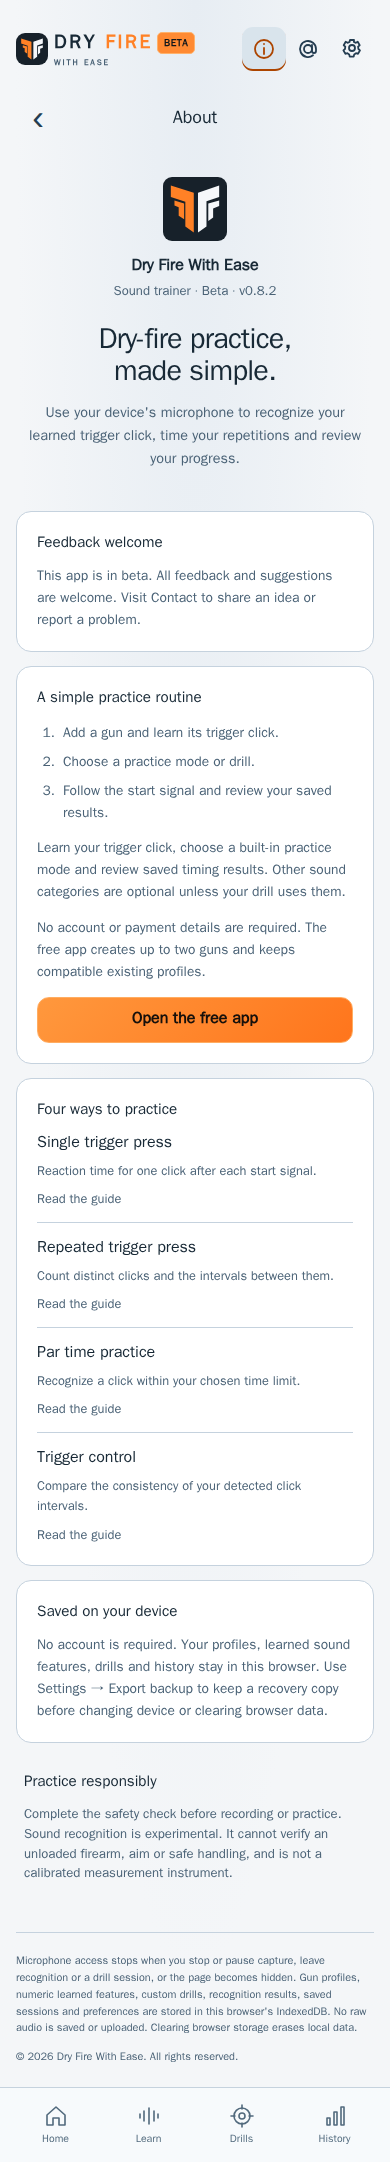
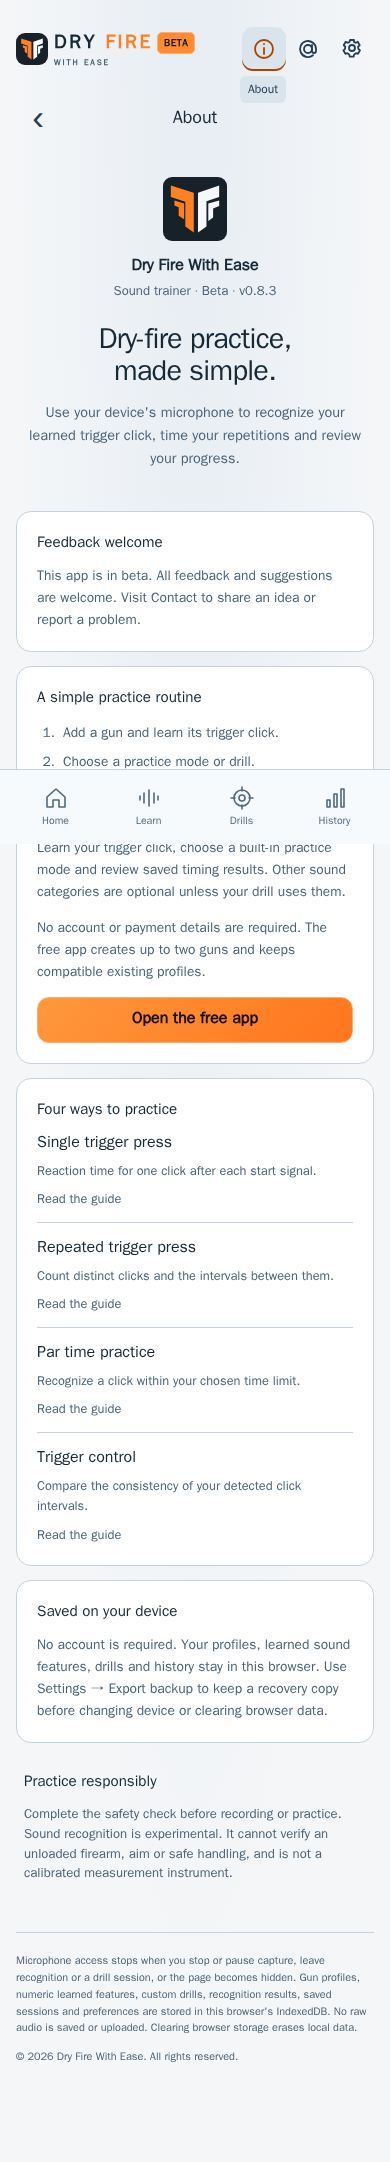
refactor: declare RecognitionList stylesheet ownership

diff --git a/tests/styleSources.test.js b/tests/styleSources.test.js
@@ -49,7 +49,7 @@ test('private progress presentation styles load with their only runtime owner', 
 });
 
 test('component-owned startup CSS is resolved through the single critical stylesheet copy', () => {
-  for (const [name, marker] of [['InformationCard', 'about-card'], ['DrillCard', 'preset-card'], ['SoundCard', 'class-card']]) {
+  for (const [name, marker] of [['InformationCard', 'about-card'], ['DrillCard', 'preset-card'], ['SoundCard', 'class-card'], ['RecognitionList', 'history-list']]) {
     const ownerPath = resolve(process.cwd(), `packages/ui/src/${name}/${name}.tsx`);
     const cssPath = `packages/ui/src/${name}/${name}.css`;
     const importPath = `./${name}.css`;

diff --git a/packages/ui/src/RecognitionList/RecognitionList.tsx b/packages/ui/src/RecognitionList/RecognitionList.tsx
@@ -1,4 +1,5 @@
 import {useState} from 'react';
+import './RecognitionList.css';
 import {HistoryDeleteControl} from '../HistoryDeleteControl';
 export type RecognitionRow={id:string;title:string;date:string;score:string;sequence?:string;actualLabel:string};
 export type RecognitionListProps={rows?:RecognitionRow[];options:{value:string;title:string}[];onVerify?:(id:string,value:string)=>void;onDelete?:(row:RecognitionRow)=>void;disabled?:boolean};

diff --git a/docs/project/component-library-refactor-plan.md b/docs/project/component-library-refactor-plan.md
@@ -1,6 +1,6 @@
 # Component-library and CSS-ownership refactor plan
 
-Status: approved for implementation on `b` (2026-11-09). CL0–CL3 are accepted. The `InformationCard`, `DrillCard` and `SoundCard` CL4 slices are accepted; SoundCard is app version 0.8.2 and exact-commit CI passed in run [42968151416](https://github.com/matosaru/dryfire/actions/runs/42968151416). Every separately accepted refactor increment bumps the app patch version. Visual design, behavior, routes, storage formats and performance limits remain unchanged. See the detailed [component-library specification](component-library-refactor-spec.md).
+Status: approved for implementation on `b` (2026-11-09). CL0–CL3 are accepted. `InformationCard`, `DrillCard` and `SoundCard` are accepted CL4 slices. `RecognitionList` is the current 0.8.3 candidate, with local tests green and exact-commit CI pending. Every separately accepted refactor increment bumps the app patch version. Visual design, behavior, routes, storage formats and performance limits remain unchanged. See the detailed [component-library specification](component-library-refactor-spec.md).
 
 ## Goal
 
@@ -14,7 +14,7 @@ Turn the existing `@dryfire/ui` package into a clearly layered internal componen
 | CL1 Architecture | Complete | Approved component and CSS ownership specification. |
 | CL2 Safety net | Complete | 182 Jest suites / 1,189 tests; public 105 and preview 82 Chromium tests pass (5 and 3 intentional skips); visual coverage records one canonical mobile Chromium capture per page type. |
 | CL3 Proof slice | Complete | `ProgressContent` imports its owned CSS; lazy Settings fallback keeps exact handoff pixels. Both editions pass optimized builds, artifact verification, actual startup-payload checks, and ten-pair Chromium/WebKit comparisons. |
-| CL4 Migration | In progress; InformationCard, DrillCard and SoundCard accepted | All three directly import their owned CSS; Vite routes startup owner imports through the critical-style manifest so prerendered screens keep one emitted stylesheet. SoundCard version 0.8.2 passes 1,192 unit tests, both edition visual suites, payload/artifact checks and all four pinned ten-pair timing comparisons. Exact-commit CI run 42968151416 passed. Migrate further repeated primitives in separate slices. |
+| CL4 Migration | In progress; InformationCard, DrillCard and SoundCard accepted; RecognitionList candidate pending CI | Candidate 0.8.3 declares RecognitionList's colocated CSS dependency, mapped through the startup-style owner so the aggregate remains the single emitted copy. The full local unit/coverage, public and preview browser suites, docs, artifacts, and smoke/SEO checks pass. A short local WebKit sample flagged a possible warm-start slowdown; exact CI uses the full paired sample gate before acceptance. |
 | CL5–CL11 | Not started | Continue shared product, feature/page, startup cleanup, review, acceptance and delivery after bounded migration slices pass. |
 
 ## Non-negotiable CSS contract
@@ -116,6 +116,13 @@ Classify a failure before fixing it. Apply one minimal fix, run focused proof, t
 - Timing: ten paired samples per metric for both editions in Chromium and WebKit. All four final candidate comparisons pass without a confirmed slowdown. Reports are in `/tmp/final-{public,preview}-{chromium,webkit}.json`; reproduce using [performance guidance](../development/PERFORMANCE.md).
 - The first CL4 `InformationCard` slice is accepted; the rest of CL4 and CL5–CL11 remain. The overall component-library migration is not complete.
 - Visual: the complete prior Chromium suites passed 105 public / 82 preview tests (5 / 3 intentional skips); after the CL4 change, public canonical About/Contact pixels and the five preview About/Contact functional routes passed. `visual:review` retains 26 canonical mobile page cases.
+
+### RecognitionList CSS-ownership increment (0.8.3 candidate)
+
+- `RecognitionList.tsx` now imports its colocated `RecognitionList.css`; the startup owner map routes it to the existing critical stylesheet, with artifact verification and style-ownership tests guarding against a duplicate CSS copy.
+- Updated the version-derived About dark/light references, canonical dark About baseline and pinned guide-example source manifest. The guide GIFs were regenerated with the pinned Playwright renderer; the 10 scenario frame counts and intended flows remain intact.
+- Local checks pass: 1,192 tests across 182 suites; typecheck; component/runtime lint; coverage ratchet; 16 smoke checks; 23 SEO checks; architecture and docs checks; public build/artifact/payload; and public Chromium/WebKit (175 pass, 38 intentional skips) plus preview Chromium/WebKit (157 pass, 6 intentional skips).
+- A two-pair public performance diagnostic passed in Chromium but signaled a possible WebKit warm-start slowdown. This diagnostic is too small to accept or reject the slice; the exact `b` CI run must complete the fixed paired performance gate before this increment is accepted. `main` remains unchanged.
 
 ### DrillCard increment (local candidate; branch CI pending)
 

diff --git a/docs/project/implementation-history.md b/docs/project/implementation-history.md
@@ -1194,3 +1194,9 @@ The first pushed run, [42967360193](https://github.com/matosaru/dryfire/actions/
 ### 2026-11-11 — active release planning aligned to `b` and `main`
 
 The owner reports the former development Git branch was deleted. Updated the active branch guide, repository instructions, release/deployment docs, build-edition requirements, and current project plans to use `b` for pre-production and protected `b` → `main` promotion for production. Removed the deleted branch from push CI and its build-profile constraint; preview remains an explicitly selected build/deployment option. Existing Cloudflare Worker/environment labels and historical acceptance records are retained where they describe infrastructure or past events. No application UI/version, data, Cloudflare configuration, or production branch was changed.
+
+### 2026-11-11 — RecognitionList CSS ownership candidate (0.8.3)
+
+`RecognitionList.tsx` now directly declares its colocated stylesheet. The startup CSS owner map and artifact/style-source tests preserve the single critical stylesheet copy, including prerendered History markup. No CSS declarations, interaction behavior, routes or stored data changed. The required patch version advanced to **0.8.3**, and About's version-dependent design references were refreshed. The pinned guide examples were regenerated because the source fingerprint changed; frame counts and scenarios were unchanged.
+
+Local validation passed 1,192 Jest tests / 182 suites, typecheck, component/runtime lint, coverage ratchet, all 16 smoke checks, 23 SEO checks, architecture/docs verification, and both-edition builds/artifact/payload checks. Pinned browser suites passed 175 public checks / 38 intentional skips and 157 preview checks / 6 intentional skips across Chromium/WebKit. A two-pair public performance diagnostic passed Chromium but indicated a possible WebKit warm-start slowdown; it is not treated as an acceptance result. Exact `b` CI performance checks are pending. `main` remains unchanged.

diff --git a/docs/design/screens/about/README.md b/docs/design/screens/about/README.md
@@ -4,7 +4,7 @@ CHG-061: retain marketing content inside About through reusable MarketingOvervie
 
 CHG-041: the shared header now shows an orange **BETA** badge beside the wordmark in both themes/editions. It remains readable on narrow screens without covering the brand or Settings. [Beta requirements](../../../requirements/branding.md#beta-disclosure--chg-041) define this shared lifecycle label; image review/delivery is recorded in the [tracker](../../../project/implementation-history.md).
 
-About shows the package version from the production build beside the Beta label (currently **Sound trainer · Beta · v0.8.2**) and a **Feedback welcome** card: “This app is in beta. All feedback and suggestions are welcome. Visit Contact to share an idea or report a problem.” Contact remains a separate page. The version is compiled from the root package metadata rather than repeated in page copy. See the [About requirements](../../../requirements/about.md).
+About shows the package version from the production build beside the Beta label (currently **Sound trainer · Beta · v0.8.3**) and a **Feedback welcome** card: “This app is in beta. All feedback and suggestions are welcome. Visit Contact to share an idea or report a problem.” Contact remains a separate page. The version is compiled from the root package metadata rather than repeated in page copy. See the [About requirements](../../../requirements/about.md).
 
 CHG-037: this screen uses the common app layout and screen wrapper, shared branded header with Settings, informational footer and fixed five-tab navigation. Context controls remain screen-specific. [Layout requirements](../../../requirements/page-layout.md), [template architecture](../../../architecture/page-templates.md) and [reviewed current captures](../../baselines/page-templates-review.json) define the current shell; earlier entries below retain historical evidence.
 
